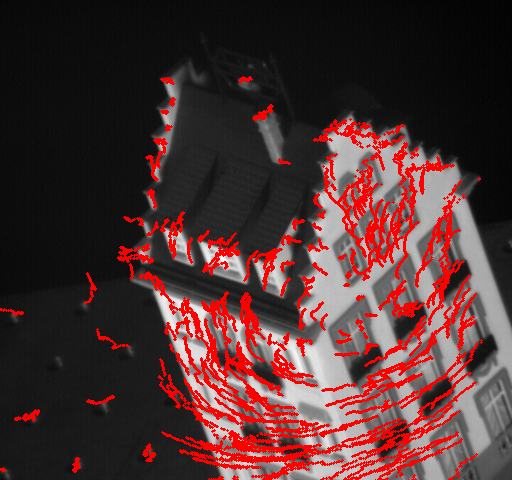
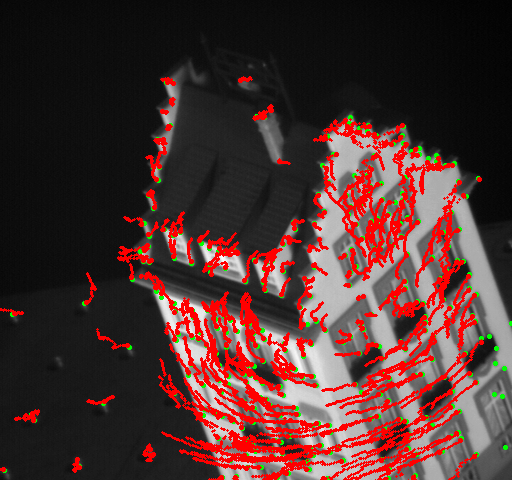
corners

diff --git a/lucas_kanade.py b/lucas_kanade.py
@@ -33,18 +33,18 @@ cv2.waitKey(0)
 #display sequence for 20 points
 for i in range(20):
   for j in range(track_x.shape[0]):
-    cv2.circle(img_20pts,(int(round(track_y[j,i],0)),int(round(track_x[j,i],0))),1,(0,0,255),-1)
+    cv2.circle(img_corners,(int(round(track_y[j,i],0)),int(round(track_x[j,i],0))),1,(0,0,255),-1)
 
-cv2.imshow('Progress for 20 points',img_20pts)
-cv2.imwrite('results/Progress_for_20_points.png',img_20pts)
+cv2.imshow('Progress for 20 points',img_corners)
+cv2.imwrite('results/Progress_for_20_points.png',img_corners)
 cv2.waitKey(0)
 
 #display full sequence image points
 for i in range(51):
   for j in range(track_x.shape[0]):
-    cv2.circle(img_tracked,(int(round(track_y[j,i],0)),int(round(track_x[j,i],0))),1,(0,0,255),-1)
+    cv2.circle(img_corners,(int(round(track_y[j,i],0)),int(round(track_x[j,i],0))),1,(0,0,255),-1)
 
-cv2.imshow('Full sequence',img_tracked)
-cv2.imwrite('results/Full_sequence.png',img_tracked)
+cv2.imshow('Full sequence',img_corners)
+cv2.imwrite('results/Full_sequence.png',img_corners)
 cv2.waitKey(0)
 
